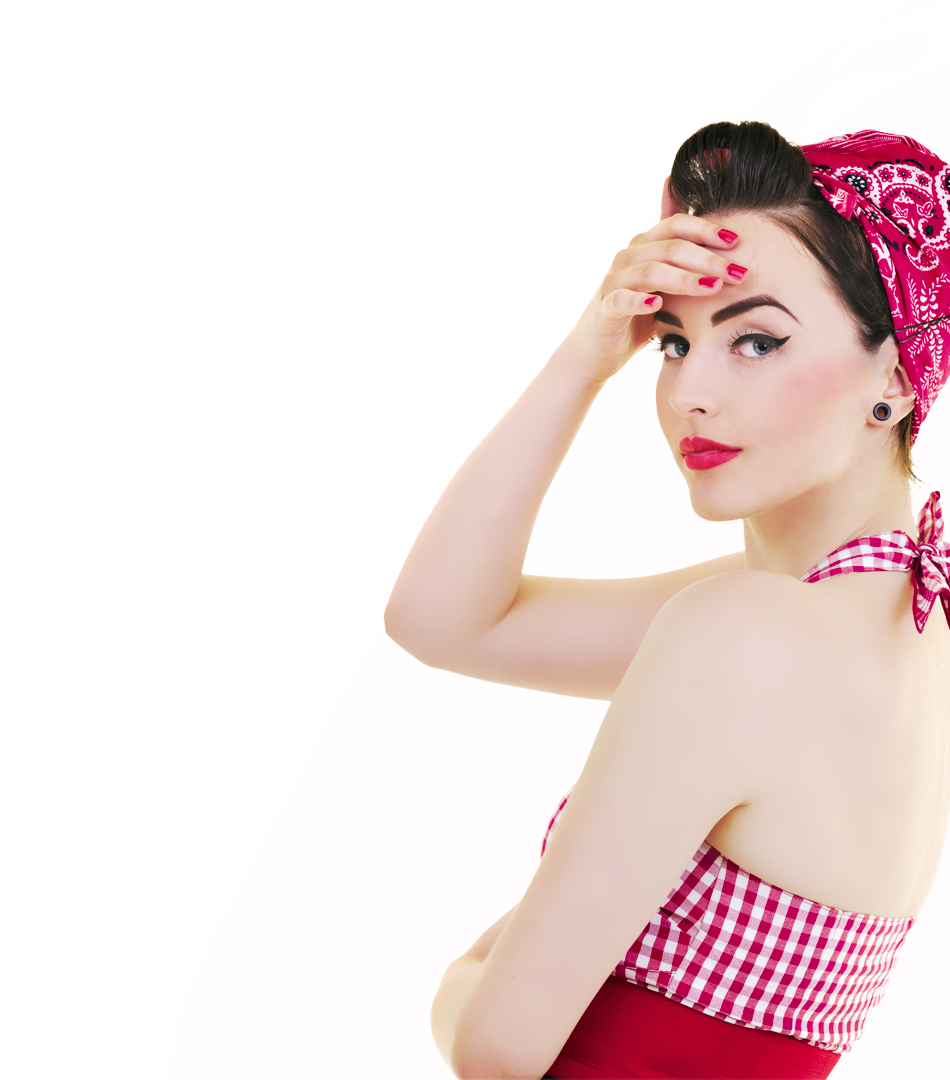
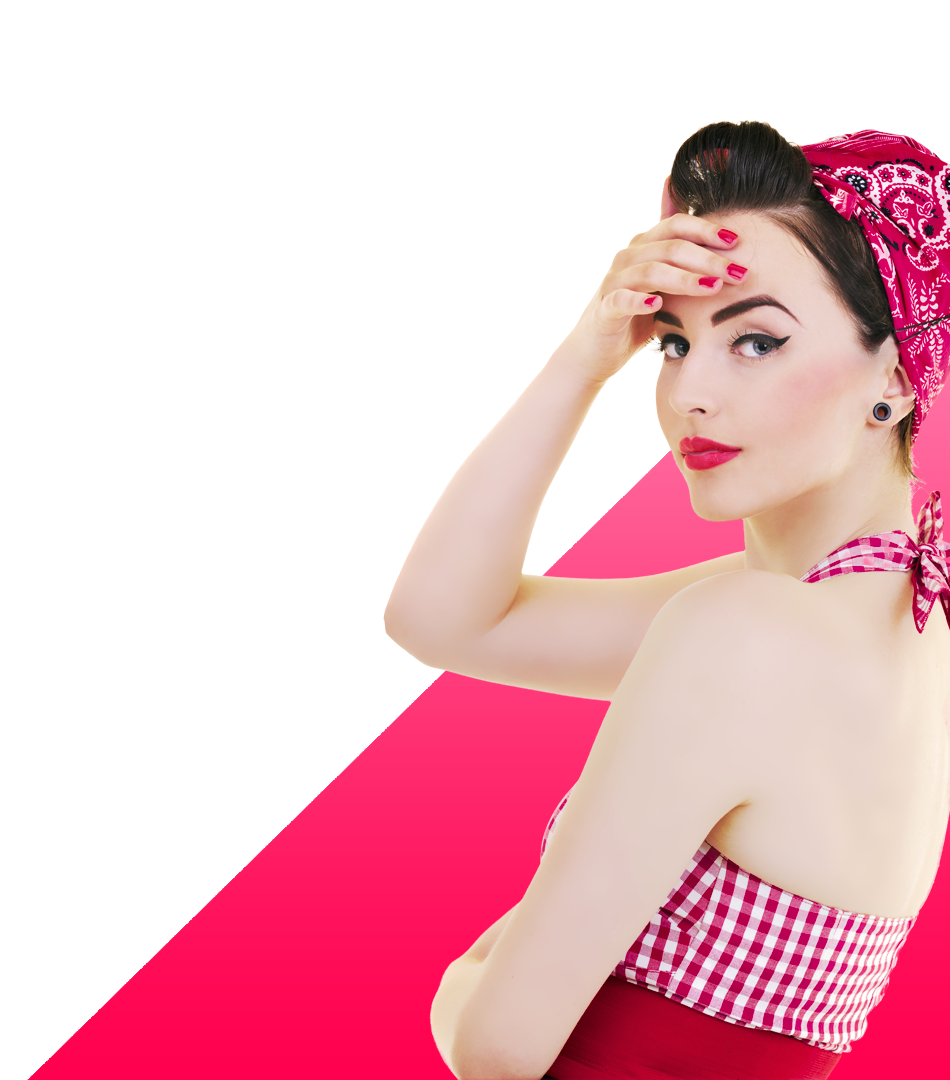
Add files via upload

diff --git a/css/main.css b/css/main.css
@@ -1,7 +1,7 @@
 *{
 	box-sizing: border-box;
 	-webkit-transition-property: all;
-	-webkit-transition-duration: 0.3s;
+	-webkit-transition-duration: 0.5s;
 	-webkit-transition-timing-function: ease;
 	margin: 0;
 	padding: 0;
@@ -85,23 +85,138 @@ h3.dop_bottom{
 span{
 	/* font-family: "Regular"; */
 	font-size: 1em;
-	color: #ff015b;
+	color: #fe043c;
 }
 
 p span{
 	font-family: "Regular";
 }
 
+.persons{
+	padding-top: 60px;
+	display: flex;
+	flex-direction: row;
+	flex-wrap: wrap;
+	justify-content: space-around;
+}
 
+.pers{
+	/* padding-left: 20px; */
+	/* max-width: 360px; */
+}
+
+.person{
+	padding: 20px 20px;
+	/* padding-top: 60px; */
+	/* padding: 30px 60px; */
+}
+
+#gallery{
+	/* position: relative; */
+	padding-left: 40px;
+	padding-top: 40px;
+	display: flex;
+	white-space: nowrap;
+	/* height: 400px; */
+	overflow-x: auto;
+	/* direction: rtl; */
+}
+::-webkit-scrollbar {
+    height: 20px;
+}
+::-webkit-scrollbar-thumb {
+		/* width: 100px; */
+		/* padding-left: 60px; */
+    /* border-radius: 10px; */
+		background-color: black;
+    /* -webkit-box-shadow: inset 0 0 6px rgba(0,0,0,0.5); */
+}
+
+#best{
+	background-image: url("pctrs/imgs/best.png");
+	background-repeat: no-repeat;
+	background-size: 50%;
+	background-position: right bottom;
+}
+
+#begin{
+	background-image: url("pctrs/imgs/begin.png");
+	background-repeat: no-repeat;
+	background-position: right bottom;
+}
+
+#arrows{
+	background-image: url("pctrs/imgs/arrows.png");
+	background-repeat: no-repeat;
+	background-position: right top;
+}
+
+#hold{
+	background-image: url("pctrs/imgs/hold.png");
+	background-repeat: no-repeat;
+	background-position: right bottom;
+}
+
+#seven{
+	background-image: url("pctrs/imgs/seven.png");
+	background-repeat: no-repeat;
+	background-position: right top;
+	background-size: 50%;
+}
+
+#target{
+	background-image: url("pctrs/imgs/target.png");
+	background-repeat: no-repeat;
+	background-position: right bottom;
+}
+#money{
+	background-image: url("pctrs/imgs/money.png");
+	background-repeat: no-repeat;
+	background-position: right bottom;
+}
+#faq{
+	background-image: url("pctrs/imgs/faq.png");
+	background-repeat: no-repeat;
+	background-size: 50%;
+	background-position: right center;
+}
+#holden{
+	color: white;
+	background: linear-gradient(-45deg, #ff0049, #ff87f2);
+}
+#how{
+	background: linear-gradient(-45deg, #ffe400, #fffd31);
+	background-image: url("pctrs/imgs/fra.png");
+	background-repeat: no-repeat;
+	background-size: 60%;
+	background-position: right bottom;
+}
+
+img{
+	position: relative;
+	width: 100%;
+}
+
+img.salon{
+	padding-left: 20px;
+	height: 460px;
+	width: auto;
+}
+/* .salon{
+	position: relative;
+	max-height: 400px;
+	width: auto;
+} */
 
 .button{
+	background: rgba(255,255,255,0.5);
 	text-transform: uppercase;
 	font-family: "Bold";
 	display: inline-block;
-	background-color: transparent;
-	border: 1px solid #ff015b;
+	/* background-color: transparent; */
+	border: 1px solid #fe043c;
 	/* border-radius: 100px; */
-	color: #ff015b;
+	color: #fe043c;
 	padding: 30px 30px;
 	text-align: center;
 	text-decoration: none;
@@ -115,11 +230,11 @@ p span{
 
 .button:hover{
 	color: white;
-	background-color: #ff015b;
+	background-color: #fe043c;
 }
 
 b{
-	color: #ff015b;
+	color: #fe043c;
 }
 
 div{
@@ -158,18 +273,31 @@ input{
 	/* float: left; */
 	/* min-width: 500px; */
 	border: none;
+	text-transform: uppercase;
+	border-bottom: 1px solid #ff015b;
 	margin: 40px 60px;
 	text-align: left;
 	display: flex;
 	flex-wrap: wrap;
 	flex-direction: row;
-	font-size: 24px;
-	padding: 20px 0px;
+	font-size: 20px;
+	padding: 20px 20px;
 	outline: none;
+	min-width: 600px;
 }
 
 input:focus{
-	color: #ff015b;
+	color: #fe043c;
+}
+input::-webkit-input-placeholder {
+		padding-left: 0%;
+    color: #000000;
+		opacity: 0.5;
+}
+input:focus::-webkit-input-placeholder {
+		padding-left: 10%;
+		opacity: 1;
+    color: #fe043c;
 }
 
 .double{
@@ -180,7 +308,9 @@ input:focus{
 }
 
 .half{
-	justify-content: flex-start;
+	float: left;
+	min-width: 50%;
+	/* justify-content: flex-start; */
 	/* display: inline-flex; */
 	/* position: relative; */
 	/* padding-bottom: 40px; */
@@ -190,7 +320,6 @@ input:focus{
 	/* position: relative; */
 	/* height: auto; */
 	/* height: 100%; */
-	min-width: 50%;
 	/* background: green; */
 }
 
@@ -208,7 +337,7 @@ input:focus{
 .plashk{
 	padding-top: 60px;
 	padding-bottom: 300px;
-	background: #ffdef1;
+	background: linear-gradient(45deg, #fff83b, #fff600);
 }
 
 .center{
@@ -281,21 +410,23 @@ p.d{
 p.q{
 	padding-top: 60px;
 	font-family: "Bold";
+	/* text-decoration-style: underline;
+	text-decoration-style: dotted; */
 	/* margin-top: 1vh;
 	margin-bottom: 1vh; */
 	/* line-height: 1.3em; */
 	/* transform: skewY(-4.5deg); */
 /*	padding-left: 10vw;
 	padding-right: 10vw;*/
-	/* text-decoration-line: underline;
+	text-decoration-line: underline;
 	text-decoration-style: dotted;
-	text-underline-position: under; */
+	text-underline-position: under;
 }
 
 p.active, .q:hover{
 	/* transform: skewY(0); */
 	/* background: rgba(255,228,0,1); */
-	color: #ff015b;
+	color: #fe043c;
 }
 
 p.answer{
@@ -314,7 +445,25 @@ br{
 	line-height: 56px;
 }
 
+div.flowl{
+	margin: 10px 30px;
+	float: left;
+}
+
 @media only screen and (max-device-width : 700px){
+	div.flowl{
+		width: 100%;
+	}
+	div.half{
+		min-width: 100%;
+	}
+	img.salon{
+		height: 700px;
+		width: auto;
+	}
+	.person{
+		max-width: 70%;
+	}
 	p.s{
 		max-width: 70%;
 	}
@@ -322,6 +471,7 @@ br{
 		line-height: 90px;
 	}
 	input{
+		max-width: 100%;
 		font-size: 40px;
 	}
 	div.third{
@@ -330,6 +480,7 @@ br{
 	}
 	p{
 		/* max-width: 96%; */
+		/* float: left; */
 		font-size: 32px;
 		line-height: 48px;
 	}
@@ -337,9 +488,9 @@ br{
 		font-size: 42px;
 		line-height:48px;
 	}
-	.plashk{
+	/* .plashk{
 		max-width: 100%;
-	}
+	} */
 	.button{
 		max-width: 60%;
 		font-size: 30px;
@@ -366,12 +517,21 @@ br{
 }
 
 @media only screen and (min-device-width : 701px){
+	div.flowl{
+		width: 500px;
+	}
+	div.half{
+		min-width: 50%;
+	}
+	.person{
+		width: 340px;
+	}
 	div.third{
 		max-width: 410px;
 	}
-	.plashk{
-		max-width: 60%;
-	}
+	/* .plashk{
+		max-width: 600px;
+	} */
 	h3{
 		max-width: 540px;
 	}
